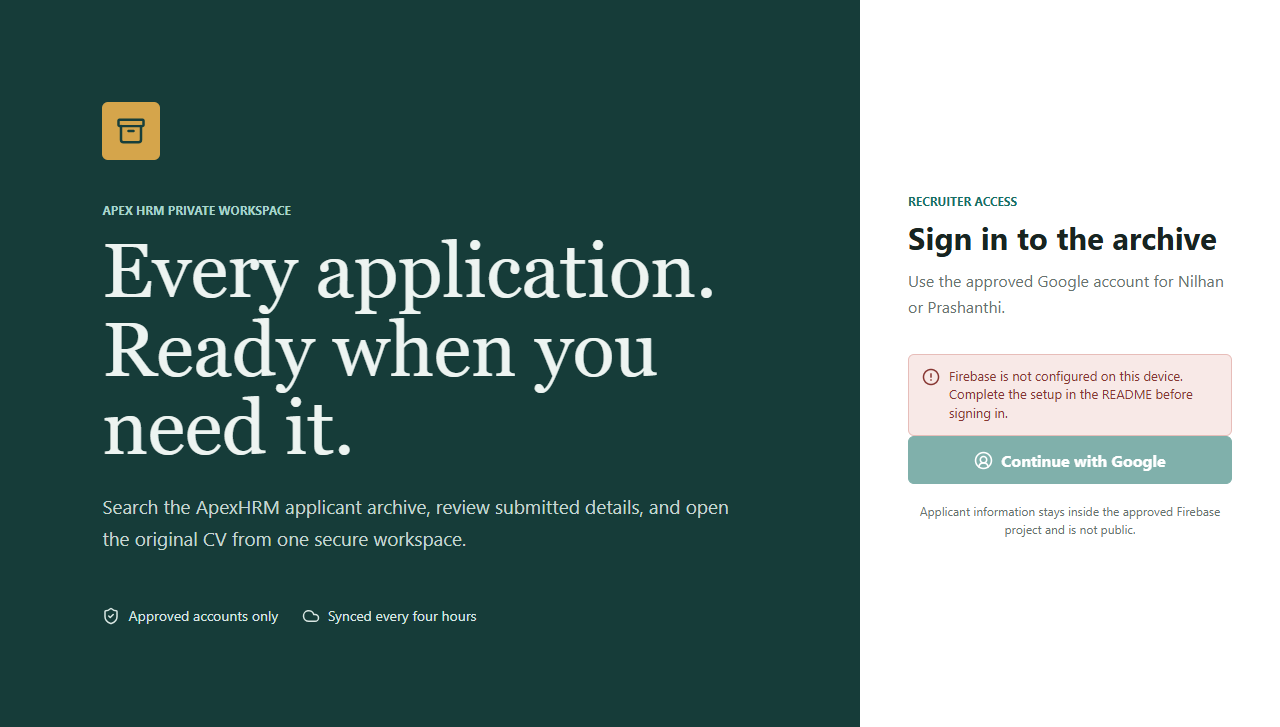
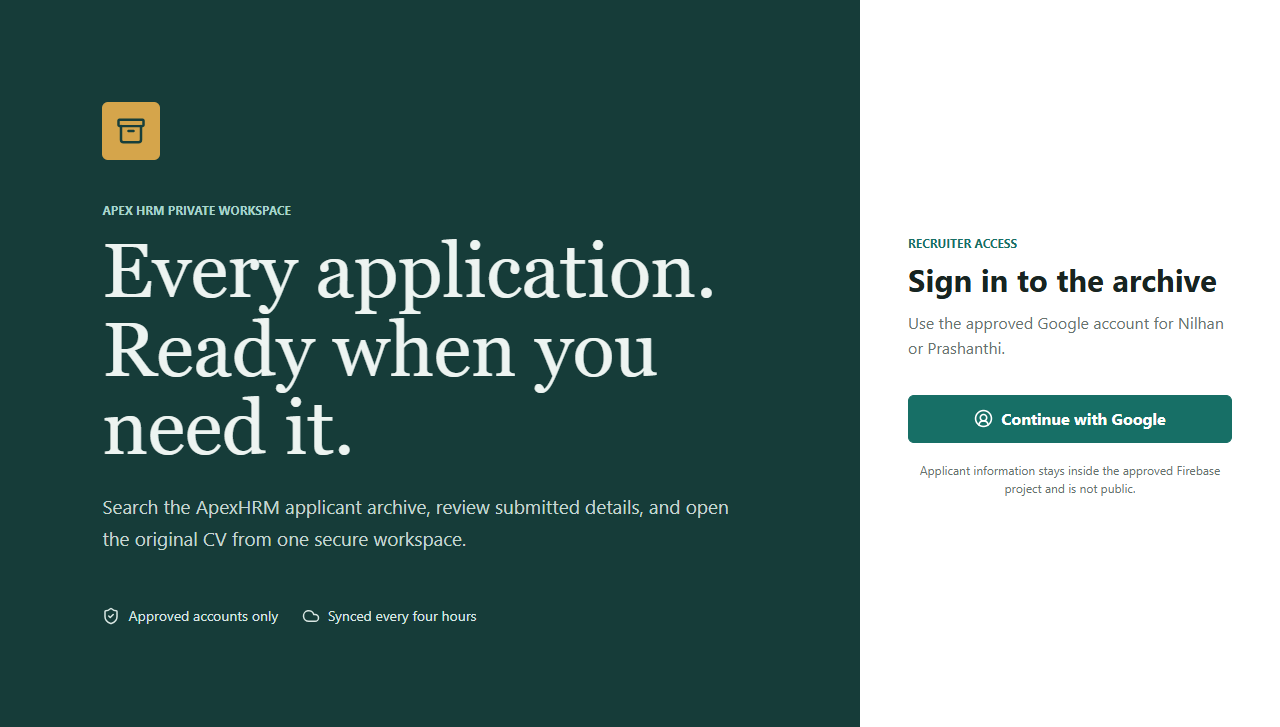
fix production auth and rollout hardening

Changed region(s): [[0.6875, 0.2724, 0.9688, 0.7565]]

diff --git a/src/App.tsx b/src/App.tsx
@@ -26,7 +26,7 @@ import {
   Star,
   X,
 } from 'lucide-react';
-import { GoogleAuthProvider, onAuthStateChanged, signInWithPopup, signOut } from 'firebase/auth';
+import { GoogleAuthProvider, onAuthStateChanged, signInWithRedirect, signOut } from 'firebase/auth';
 import { demoApplications, demoSyncRuns, demoSyncState } from './data/demoApplications';
 import { auth } from './firebase/auth';
 import { isFirebaseConfigured } from './firebase/env';
@@ -91,12 +91,37 @@ function initials(name: string): string {
     .join('') || 'AP';
 }
 
-export function isArchiveStale(state: SyncState): boolean {
-  if (!state.lastSuccessfulAt) return true;
-  return Date.now() - new Date(state.lastSuccessfulAt).getTime() > 8 * 60 * 60 * 1000;
+export function archiveFreshness(state: SyncState): 'never' | 'current' | 'overdue' | 'critical' {
+  if (!state.lastSuccessfulAt) return 'never';
+  const lastSuccessfulAt = new Date(state.lastSuccessfulAt).getTime();
+  if (Number.isNaN(lastSuccessfulAt)) return 'critical';
+  const age = Date.now() - lastSuccessfulAt;
+  if (age > 8 * 60 * 60 * 1000) return 'critical';
+  if (age > 5 * 60 * 60 * 1000) return 'overdue';
+  return 'current';
 }
 
-function displayError(error: unknown): string {
+export function isArchiveStale(state: SyncState): boolean {
+  return archiveFreshness(state) !== 'current';
+}
+
+export function displayError(error: unknown): string {
+  const code = typeof error === 'object' && error !== null && 'code' in error ? String(error.code) : '';
+  const friendlyMessages: Record<string, string> = {
+    'auth/internal-error': 'Google sign-in is not available yet. Please try again shortly or contact the archive owner.',
+    'auth/operation-not-allowed': 'Google sign-in has not been enabled for this archive.',
+    'auth/popup-blocked': 'Your browser blocked the Google sign-in window. Allow pop-ups for this site and try again.',
+    'auth/popup-closed-by-user': 'Sign-in was cancelled before completion.',
+    'auth/network-request-failed': 'The sign-in service could not be reached. Check your connection and try again.',
+    'functions/permission-denied': 'This Google account is not approved for Apex Talent Archive.',
+    'functions/unauthenticated': 'Your sign-in session has expired. Please sign in again.',
+    'functions/not-found': 'The archive service is not available yet. Please try again shortly.',
+    'functions/unavailable': 'The archive service is temporarily unavailable. Please try again.',
+  };
+  if (friendlyMessages[code]) return friendlyMessages[code];
+  if (code.startsWith('auth/') || code.startsWith('functions/')) {
+    return 'The archive could not complete that request. Please try again.';
+  }
   if (error instanceof Error) return error.message;
   return 'Something went wrong. Please try again.';
 }
@@ -160,11 +185,12 @@ function Sidebar({ view, profile, onView, onSignOut }: { view: AppView; profile:
 }
 
 function StatusPill({ state }: { state: SyncState }) {
-  const stale = isArchiveStale(state);
+  const freshness = archiveFreshness(state);
+  const stale = freshness !== 'current';
   return (
     <span className={`sync-pill ${state.status === 'failed' || stale ? 'warning' : state.status}`}>
       <span className="pulse-dot" />
-      {state.status === 'running' ? 'Syncing now' : state.status === 'never_run' ? 'Not synced' : stale ? 'Sync overdue' : 'Archive current'}
+      {state.status === 'running' ? 'Syncing now' : freshness === 'never' ? 'Not synced' : freshness === 'critical' ? 'Sync critically overdue' : freshness === 'overdue' ? 'Sync overdue' : 'Archive current'}
     </span>
   );
 }
@@ -321,6 +347,7 @@ function ApplicationsView({ applications, syncState, demo, onRecruiterChange }: 
   const selected = applications.find((application) => application.id === selectedId) ?? null;
   const tags = useMemo(() => [...new Set(applications.flatMap((application) => application.recruiter.tags))].sort(), [applications]);
   const activeFilters = Object.entries(filters).filter(([key, value]) => value !== (defaultFilters as unknown as Record<string, unknown>)[key]).length;
+  const freshness = archiveFreshness(syncState);
 
   useEffect(() => {
     function onKeyDown(event: KeyboardEvent) {
@@ -343,7 +370,7 @@ function ApplicationsView({ applications, syncState, demo, onRecruiterChange }: 
 
   return <>
     <header className="page-header"><div><p className="eyebrow">ApexHRM form 2989</p><h1>Applications</h1><p>Search every submitted field and open the archived CV.</p></div><StatusPill state={syncState} /></header>
-    {isArchiveStale(syncState) ? <div className="stale-banner"><AlertCircle size={18} /><span>{syncState.status === 'never_run' ? 'The archive has not completed its first sync.' : `The last successful sync was ${formatDate(syncState.lastSuccessfulAt, true)}.`}</span></div> : null}
+    {freshness !== 'current' ? <div className={`stale-banner ${freshness === 'critical' ? 'critical' : ''}`} role="alert"><AlertCircle size={18} /><span>{freshness === 'never' ? 'The archive has not completed its first sync.' : freshness === 'critical' ? `Archive data is more than eight hours old. Owner action is required. Last successful sync: ${formatDate(syncState.lastSuccessfulAt, true)}.` : `Archive data is more than five hours old. Last successful sync: ${formatDate(syncState.lastSuccessfulAt, true)}.`}</span></div> : null}
     <section className="search-command" aria-label="Search applications">
       <div className="search-input"><Search size={21} /><input ref={searchRef} value={query} onChange={(event) => setQuery(event.target.value)} placeholder="Search name, email, role, application text, tag, or CV filename" aria-label="Search applications" />{query ? <button onClick={() => setQuery('')} aria-label="Clear search"><X size={17} /></button> : <kbd>/</kbd>}</div>
       <button className="button secondary mobile-filter-button" onClick={() => setFiltersOpen((value) => !value)}><Filter size={17} />Filters{activeFilters ? ` (${activeFilters})` : ''}</button>
@@ -435,7 +462,7 @@ export default function App() {
     if (demoMode) return;
     if (!auth) { setError('Firebase is not configured.'); return; }
     setBusy(true); setError('');
-    try { await signInWithPopup(auth, new GoogleAuthProvider()); }
+    try { await signInWithRedirect(auth, new GoogleAuthProvider()); }
     catch (caught) { setError(displayError(caught)); }
     finally { setBusy(false); }
   }

diff --git a/src/App.test.ts b/src/App.test.ts
@@ -1,5 +1,5 @@
 import { describe, expect, it } from 'vitest';
-import { isArchiveStale, isDevelopmentDemoAllowed } from './App';
+import { archiveFreshness, displayError, isArchiveStale, isDevelopmentDemoAllowed } from './App';
 import type { SyncState } from './types';
 
 describe('authentication boundary', () => {
@@ -7,6 +7,14 @@ describe('authentication boundary', () => {
     expect(isDevelopmentDemoAllowed(true, '?demo=1')).toBe(true);
     expect(isDevelopmentDemoAllowed(false, '?demo=1')).toBe(false);
     expect(isDevelopmentDemoAllowed(true, '')).toBe(false);
+  });
+
+  it('turns Firebase authentication failures into useful messages', () => {
+    expect(displayError({ code: 'auth/internal-error' })).toContain('Google sign-in');
+    expect(displayError({ code: 'auth/popup-blocked' })).toContain('pop-ups');
+    expect(displayError({ code: 'functions/permission-denied' })).toContain('not approved');
+    expect(displayError({ code: 'functions/not-found' })).toContain('not available yet');
+    expect(displayError({ code: 'auth/unknown-failure' })).not.toContain('auth/unknown-failure');
   });
 });
 
@@ -21,9 +29,13 @@ describe('sync freshness', () => {
     lastError: null,
   };
 
-  it('marks never-synced and older-than-eight-hour archives as stale', () => {
+  it('marks never-synced and older-than-five-hour archives as stale', () => {
     expect(isArchiveStale({ ...state, lastSuccessfulAt: null })).toBe(true);
-    expect(isArchiveStale({ ...state, lastSuccessfulAt: new Date(Date.now() - 9 * 60 * 60 * 1000).toISOString() })).toBe(true);
+    expect(isArchiveStale({ ...state, lastSuccessfulAt: new Date(Date.now() - 6 * 60 * 60 * 1000).toISOString() })).toBe(true);
+    expect(isArchiveStale({ ...state, lastSuccessfulAt: new Date(Date.now() - 4 * 60 * 60 * 1000).toISOString() })).toBe(false);
     expect(isArchiveStale(state)).toBe(false);
+    expect(archiveFreshness({ ...state, lastSuccessfulAt: new Date(Date.now() - 6 * 60 * 60 * 1000).toISOString() })).toBe('overdue');
+    expect(archiveFreshness({ ...state, lastSuccessfulAt: new Date(Date.now() - 9 * 60 * 60 * 1000).toISOString() })).toBe('critical');
+    expect(archiveFreshness({ ...state, lastSuccessfulAt: 'invalid-date' })).toBe('critical');
   });
 });

diff --git a/functions/src/index.ts b/functions/src/index.ts
@@ -42,6 +42,12 @@ export const scheduledApexSync = onSchedule(
     timeZone: 'Asia/Colombo',
     timeoutSeconds: 540,
     memory: '512MiB',
+    maxInstances: 1,
+    retryCount: 3,
+    maxRetrySeconds: 3600,
+    minBackoffSeconds: 60,
+    maxBackoffSeconds: 900,
+    maxDoublings: 3,
     secrets: [wordpressUsername, wordpressApplicationPassword],
   },
   async () => {
@@ -49,7 +55,7 @@ export const scheduledApexSync = onSchedule(
   },
 );
 
-export const provisionUserProfile = onCall({ region: REGION }, async (request) => {
+export const provisionUserProfile = onCall({ region: REGION, maxInstances: 2 }, async (request) => {
   const email = String(request.auth?.token.email ?? '').trim().toLowerCase();
   const emailVerified = request.auth?.token.email_verified === true;
   if (!request.auth?.uid || !email || !emailVerified) {
@@ -82,6 +88,7 @@ export const syncNow = onCall(
     region: REGION,
     timeoutSeconds: 540,
     memory: '512MiB',
+    maxInstances: 1,
     secrets: [wordpressUsername, wordpressApplicationPassword],
   },
   async (request) => {
@@ -101,6 +108,9 @@ export const importCvTask = onTaskDispatched<CvTaskPayload>(
     region: REGION,
     timeoutSeconds: 300,
     memory: '512MiB',
+    maxInstances: 3,
+    concurrency: 1,
+    invoker: 'private',
     retryConfig: {
       maxAttempts: 5,
       minBackoffSeconds: 60,

diff --git a/src/styles.css b/src/styles.css
@@ -142,6 +142,7 @@ a { color: inherit; }
 .inline-alert.success { color: #115f57; border-color: #afd3ca; background: var(--green-soft); }
 .inline-alert.compact { margin: 12px 18px 0; padding: 9px 10px; }
 .stale-banner { min-height: 42px; display: flex; align-items: center; gap: 9px; margin: 2px 0 16px; border-left: 4px solid var(--ochre); padding: 9px 13px; color: #714b1c; background: var(--ochre-soft); font-size: 13px; }
+.stale-banner.critical { border-left-color: #b2473f; color: #7c2c28; background: var(--red-soft); }
 
 .search-command { min-height: 68px; display: flex; align-items: center; gap: 12px; border: 1px solid var(--line); border-radius: 8px 8px 0 0; padding: 12px; background: var(--paper); }
 .search-input { min-width: 260px; flex: 1; height: 44px; display: flex; align-items: center; gap: 10px; border: 1px solid #bdc7c2; border-radius: 6px; padding: 0 12px; background: #fff; }

diff --git a/README.md b/README.md
@@ -7,7 +7,7 @@ Private recruiter workspace for every job application submitted through ApexHRM 
 - Authenticated WordPress bridge with a least-privilege export role and recursive Forminator CV normalization.
 - Firebase 2nd-generation scheduled full sync, owner-only dry run/manual sync, lease protection, source hashing, retained-source-deletion state, and Cloud Tasks CV imports.
 - HTTPS/hostname/path allowlisting, 25 MiB limit, extension plus file-signature validation, private Storage writes, and bounded CV retries.
-- Google sign-in provisioning for exactly two configured verified emails.
+- Google sign-in provisioning for the configured owner and recruiter allowlists.
 - Firestore and Storage rules that deny by default and permit recruiters to edit only `recruiter` state.
 - Search-first recruiter UI using Firestore data and MiniSearch over names, email, job references, submitted text, safe raw fields, tags, and CV filenames.
 - Stage, CV, assignee, tag, date, favourite, and source-presence filters; CSV export; CV preview/download; sync monitoring; stale-data warnings.
@@ -64,14 +64,16 @@ Current rollout status, checked on 15 July 2026:
 - Firestore Standard default database exists in `asia-south1`.
 - Firestore rules are deployed.
 - Firebase Hosting is deployed at `https://fb-apexhrm-recruit-intel.web.app`.
+- Firebase Authentication is initialized, Google sign-in is enabled, and the two Hosting domains plus `localhost` and `127.0.0.1` are authorized.
+- The live sign-in control reaches Google Accounts through a full-page redirect without application console errors.
 - Local `.env.local` contains only public Firebase web-app configuration.
 - Functions env allowlist is configured locally with Nilhan's two approved owner emails and Prashanthi's recruiter email.
 
-Billing is still disabled. This blocks Cloud Functions, Cloud Build, Cloud Scheduler, Cloud Tasks, Secret Manager, Firebase Storage bucket creation, Storage rules deployment, WordPress secrets, CV import, backfill, and the four-hour scheduler. Upgrade the project to Blaze before continuing backend rollout.
+Billing is still disabled. A request to raise `My Billing Account` from five to six linked projects was submitted successfully on 15 July 2026; the browser confirmation is saved at `evidence/ui/quota-request-submitted-2026-07-15.png`. Until Google approves that request and the project is linked, Cloud Functions, Cloud Build, Cloud Scheduler, Cloud Tasks, Secret Manager, Firebase Storage bucket creation, Storage rules deployment, WordPress secrets, CV import, backfill, and the four-hour scheduler remain blocked.
 
 ## Production Setup
 
-1. Enable Blaze billing for `fb-apexhrm-recruit-intel`.
+1. After the linked-project quota request is approved, link `fb-apexhrm-recruit-intel` to billing account `01A78A-843481-5612A3`; this enables Blaze without unlinking any existing project. Create the project-scoped US$10 budget with 50%, 90%, and 100% alerts. Budget alerts warn but do not cap spend.
 2. Create the default Firestore database and Storage bucket in `asia-south1`.
 3. Enable Google as a Firebase Authentication provider; authorize domains `localhost` and `127.0.0.1` for local testing.
 4. Create a Firebase Web app, then copy its public web configuration into `.env.local` and the production build environment.
@@ -99,7 +101,7 @@ npm run build
 firebase deploy --only hosting,functions:scheduledApexSync
 ```
 
-The schedule is `0 */4 * * *` in `Asia/Colombo`. Monitor the first three runs and investigate any stale-data warning older than eight hours.
+The schedule is `0 */4 * * *` in `Asia/Colombo`. The app warns after five hours and escalates after eight hours. Monitor the first three scheduled runs before accepting production completion.
 
 ## Current Live Source Evidence
 
@@ -107,8 +109,8 @@ A read-only authenticated check on 15 July 2026 returned 164 form `2989` applica
 
 ## Known Operational Limits
 
-- The first backend production deployment is blocked until Firebase billing is enabled. The approved email allowlist is already configured locally as `nilhan.dev@gmail.com,nilhan@gmail.com` for owner access and `prashanthiratnayake23@gmail.com` for recruiter access.
-- Google sign-in has not been fully initialized yet because the Identity Toolkit admin initialization path also returned `BILLING_NOT_ENABLED` for this project. Enable it from Firebase Console after Blaze is active, or rerun the API setup.
-- The frontend production dependency audit reports zero findings. The Functions production dependency audit currently reports nine moderate transitive findings in Firebase/Google packages and no high or critical findings. The automated all-fixes path proposes breaking version changes, so upgrades should be tested deliberately rather than forced during rollout.
+- The first backend production deployment is blocked until the linked-project quota increase is approved and Firebase billing is enabled. The approved email allowlist is already configured locally as `nilhan.dev@gmail.com,nilhan@gmail.com` for owner access and `prashanthiratnayake23@gmail.com` for recruiter access.
+- The live WordPress bridge is still plugin version `1.0.0`. It returns 164 form `2989` applications but no canonical `files[]`; v2 must be deployed through WordPress or Hostinger production file access before any backfill is accepted.
+- The frontend production dependency audit reports zero findings. The Functions production dependency audit currently reports nine moderate transitive findings in Firebase/Google packages and no high or critical findings. `firebase-functions` is declared at the current compatible `7.2.5`; its peer range still excludes `firebase-admin` 14, so the unsupported automated major downgrade/upgrade path is deliberately not forced.
 - PDF, image, and TXT CVs can preview in-app. DOC/DOCX files download rather than render inline.
 - The client-side search index is appropriate for this archive size. Reassess an external search service only if the archive grows beyond roughly 5,000 applications or browser indexing becomes measurably slow.

diff --git a/evidence/rollout-2026-07-15.md b/evidence/rollout-2026-07-15.md
@@ -8,11 +8,20 @@
 - Firestore Standard default database created in `asia-south1`.
 - Firestore rules deployed.
 - Firebase Hosting deployed: `https://fb-apexhrm-recruit-intel.web.app`.
+- Firebase Authentication initialized with Google sign-in enabled.
+- Authorized Auth domains verified: both Firebase Hosting domains, `localhost`, and `127.0.0.1`.
+- Live sign-in redirect reached Google Accounts with 0 application console errors.
 - Live Hosting page loaded with page title `Apex Talent Archive`.
 - Browser console check returned 0 warnings and 0 errors.
-- Live screenshot saved at `evidence/ui/live-hosting-login-2026-07-15.png`.
+- Current live desktop and 390 px mobile screenshots are saved at `evidence/ui/live-hosting-login-2026-07-15.png` and `evidence/ui/live-hosting-login-mobile-2026-07-15.png`; neither rendered with overlap.
 - Local project alias added in `.firebaserc`.
 - Local Functions env allowlist added in `functions/.env.fb-apexhrm-recruit-intel`.
+- A paid-project quota increase from five to six linked projects was submitted successfully for `My Billing Account`; confirmation is saved at `evidence/ui/quota-request-submitted-2026-07-15.png`.
+- Existing `kiro-api` Application Password authentication was verified without exposing the credential.
+- Live WordPress bridge v1 source check returned HTTP 200 with 164 form `2989` applications and stable pagination metadata.
+- WordPress core reports `Apex Forminator Bridge` version `1.0.0`; the v1 response lacks canonical `files[]`, proving v2 is still required.
+- Final `npm run verify` passed after Auth, CSP, retry, concurrency, and freshness changes: 11 app tests, 4 function tests, 5 emulator rule tests, both typechecks, and both builds.
+- Production dependency audits have 0 frontend findings and 9 moderate Functions transitive findings, with 0 high or critical findings. The current Firebase Functions peer range does not support Firebase Admin 14, so an unsupported major change was not forced.
 
 ## Blocked
 
@@ -22,7 +31,7 @@
 - Storage rules deployment is blocked until Firebase Storage is set up.
 - Secret Manager is blocked, so WordPress secrets cannot be set yet.
 - Cloud Scheduler and Cloud Tasks are blocked, so the four-hour sync and CV worker cannot be deployed yet.
-- Identity Toolkit initialization returned `BILLING_NOT_ENABLED`, so Google sign-in still needs to be enabled after billing is active.
+- Google has not yet approved the linked-project quota increase; billing remains disabled at the latest check.
 - WordPress bridge v2 has not been deployed to the live ApexHRM WordPress site in this rollout.
 - No production sync/backfill has run.
 
